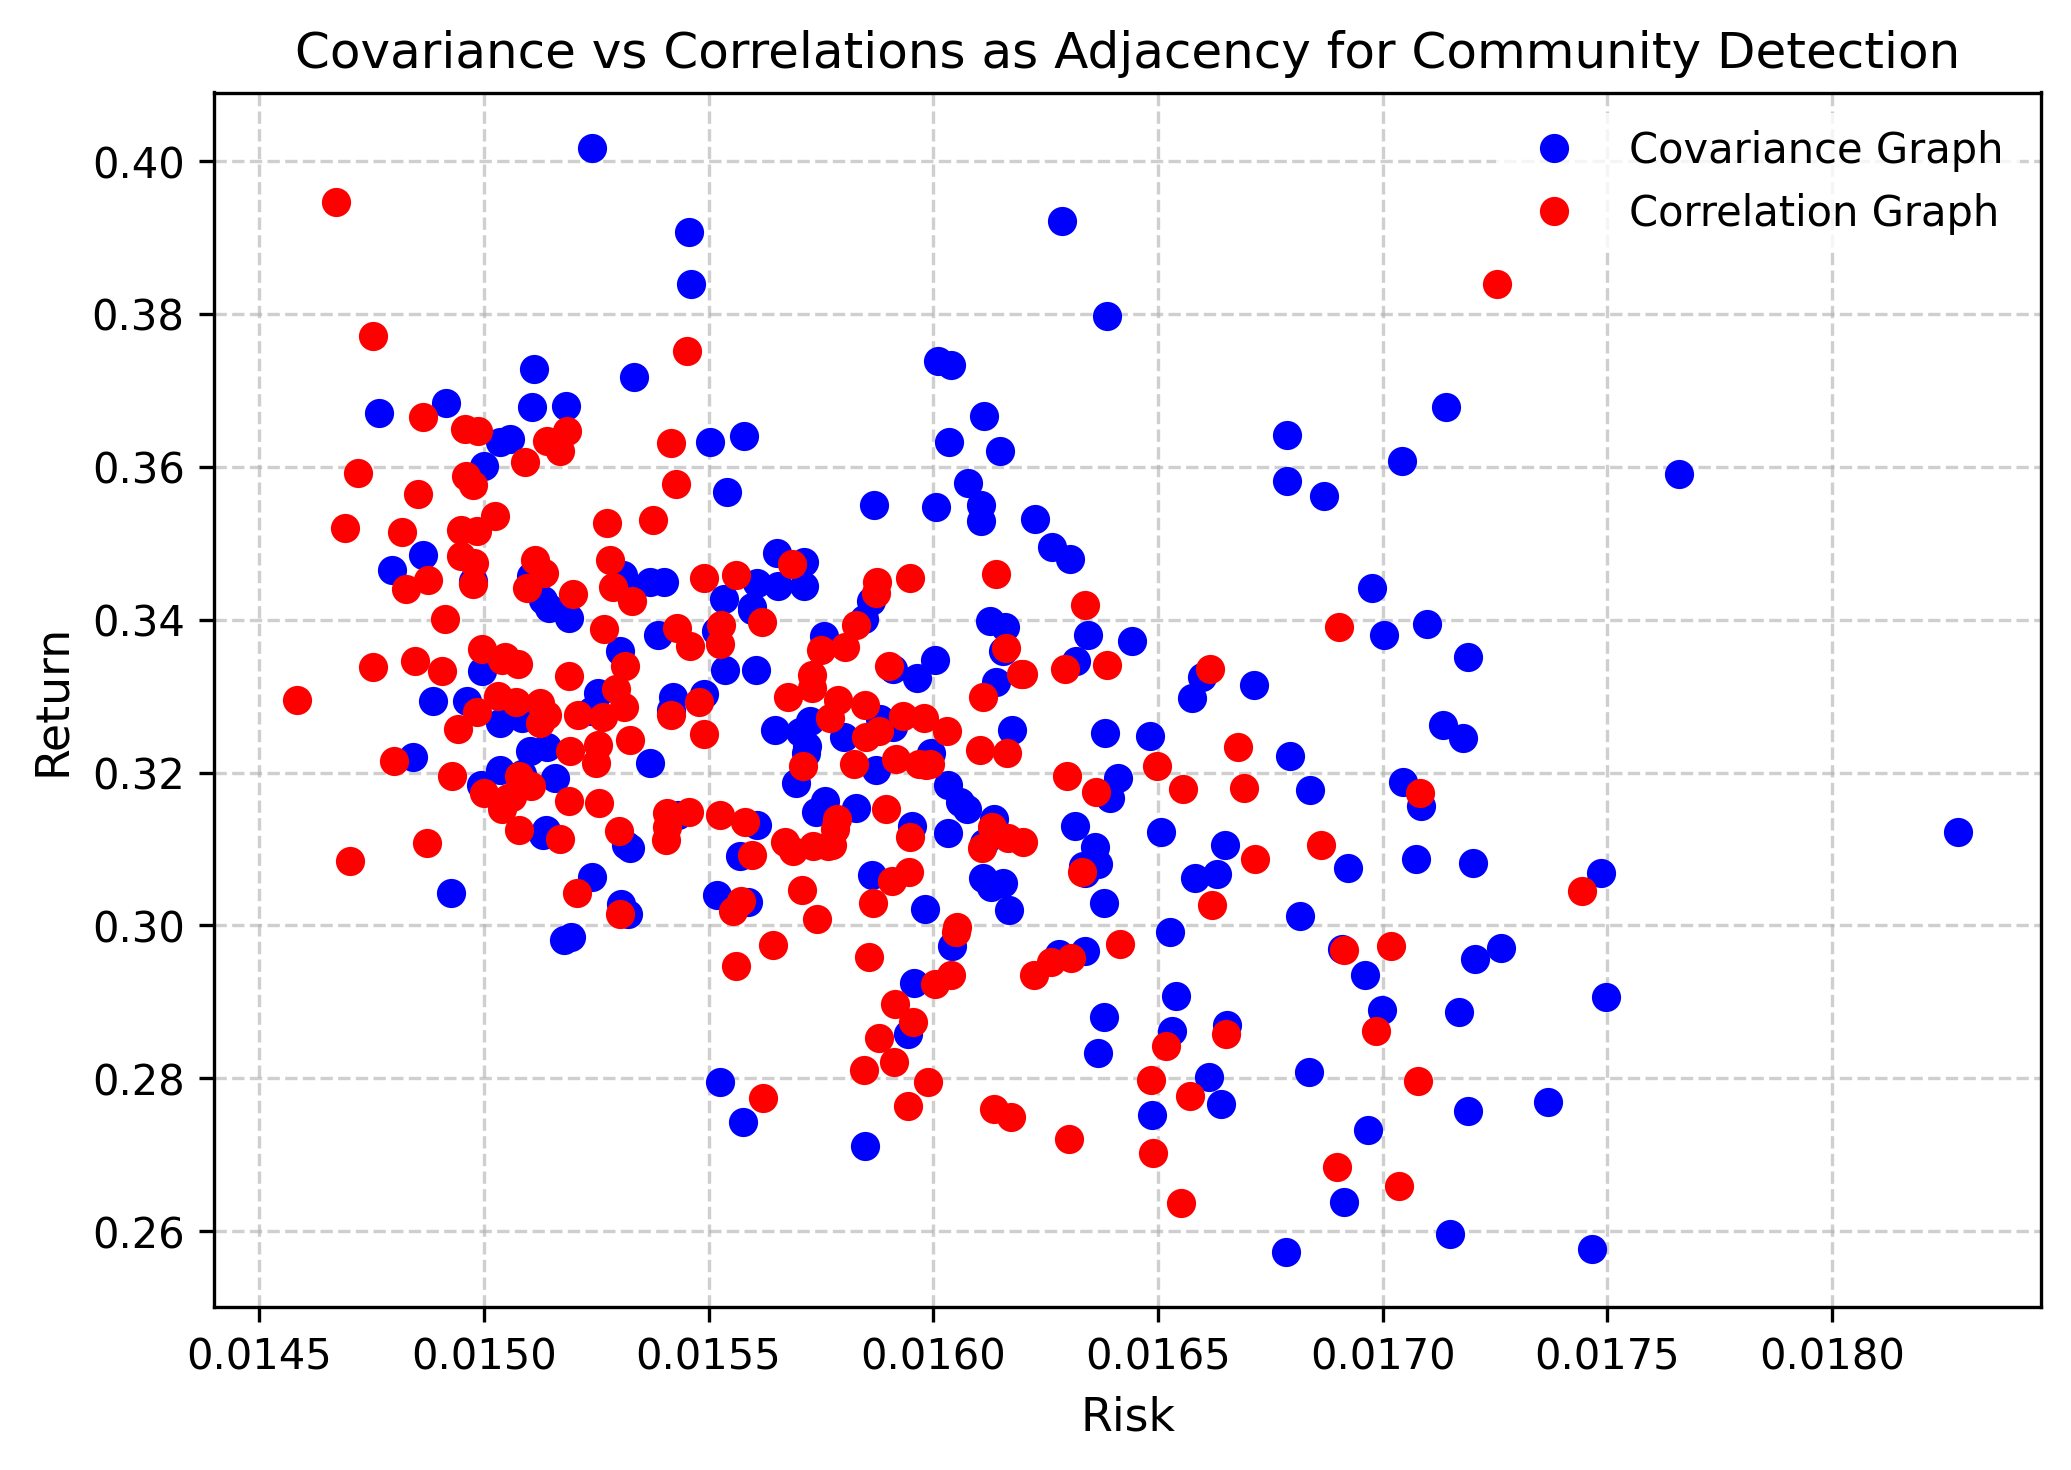
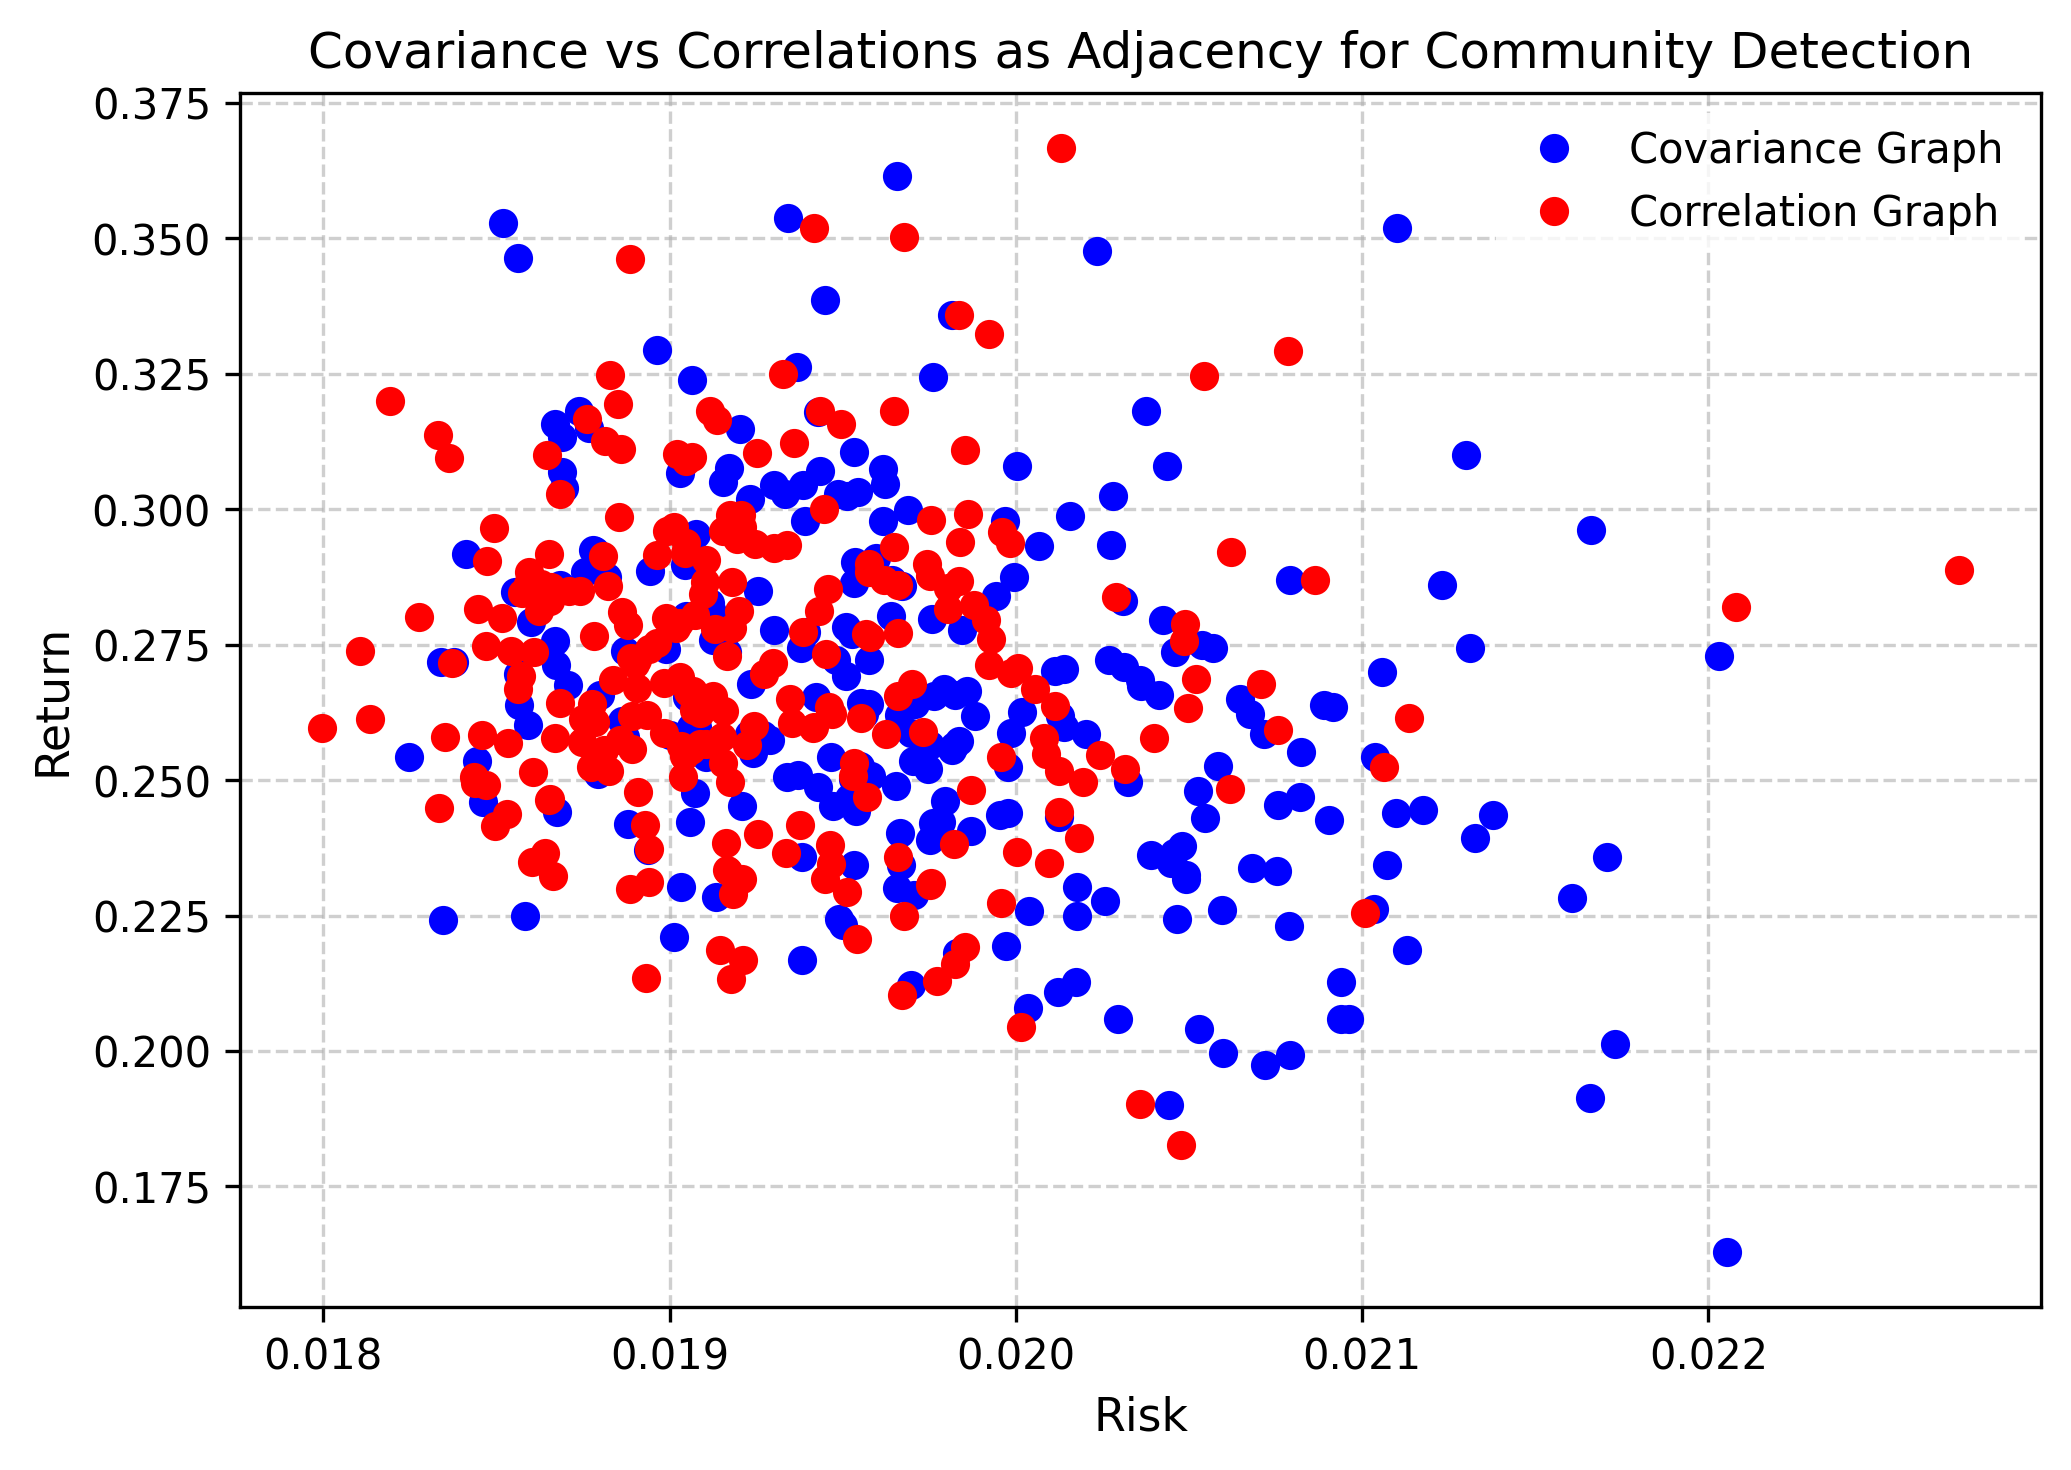
images

diff --git a/src/benchmarking/adjacency.py b/src/benchmarking/adjacency.py
@@ -10,8 +10,8 @@ from main import community_asset_allocation
 
 if __name__ == "__main__":
 
-    number_runs=200
-    number_communities=5
+    number_runs = 250
+    number_communities = 5
 
     assets_dict = parse_assets_file("benchmarking_assets.txt")
     choose = lambda area, n : np.random.choice(assets_dict[area], n, replace=False).tolist()

diff --git a/src/benchmarking/diversification.py b/src/benchmarking/diversification.py
@@ -10,8 +10,8 @@ from main import community_asset_allocation
 
 if __name__ == "__main__":
 
-    number_runs=3
-    number_communities=5
+    number_runs = 10
+    number_communities = 5
 
     with open("benchmarking_assets.txt", "r") as file:
         all_assets = [ticker for line in file if (ticker := line.split("#")[0].split("-")[0].split(" ")[0].strip())]